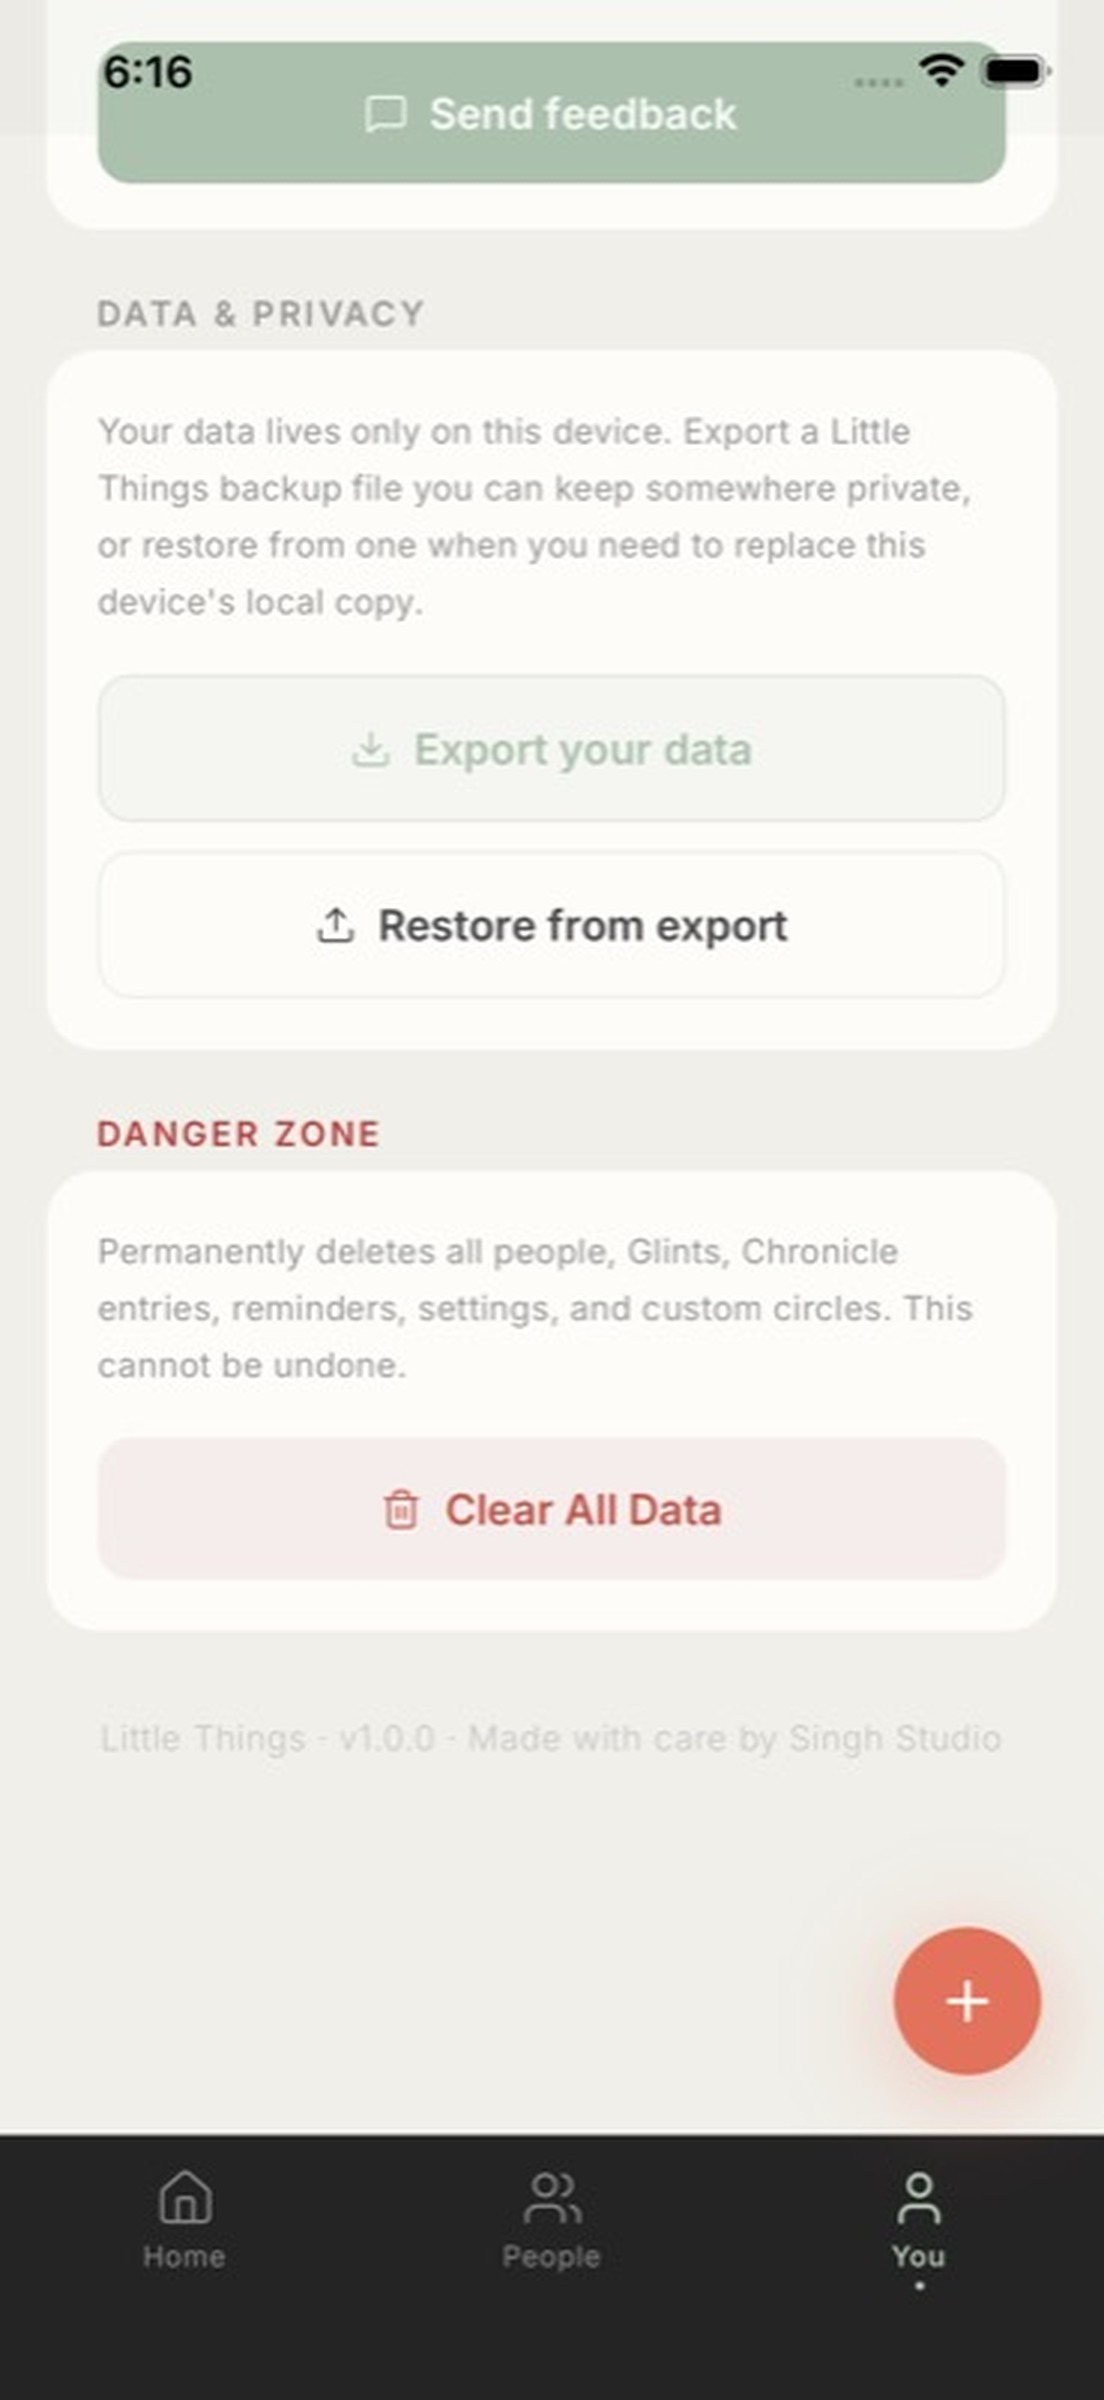
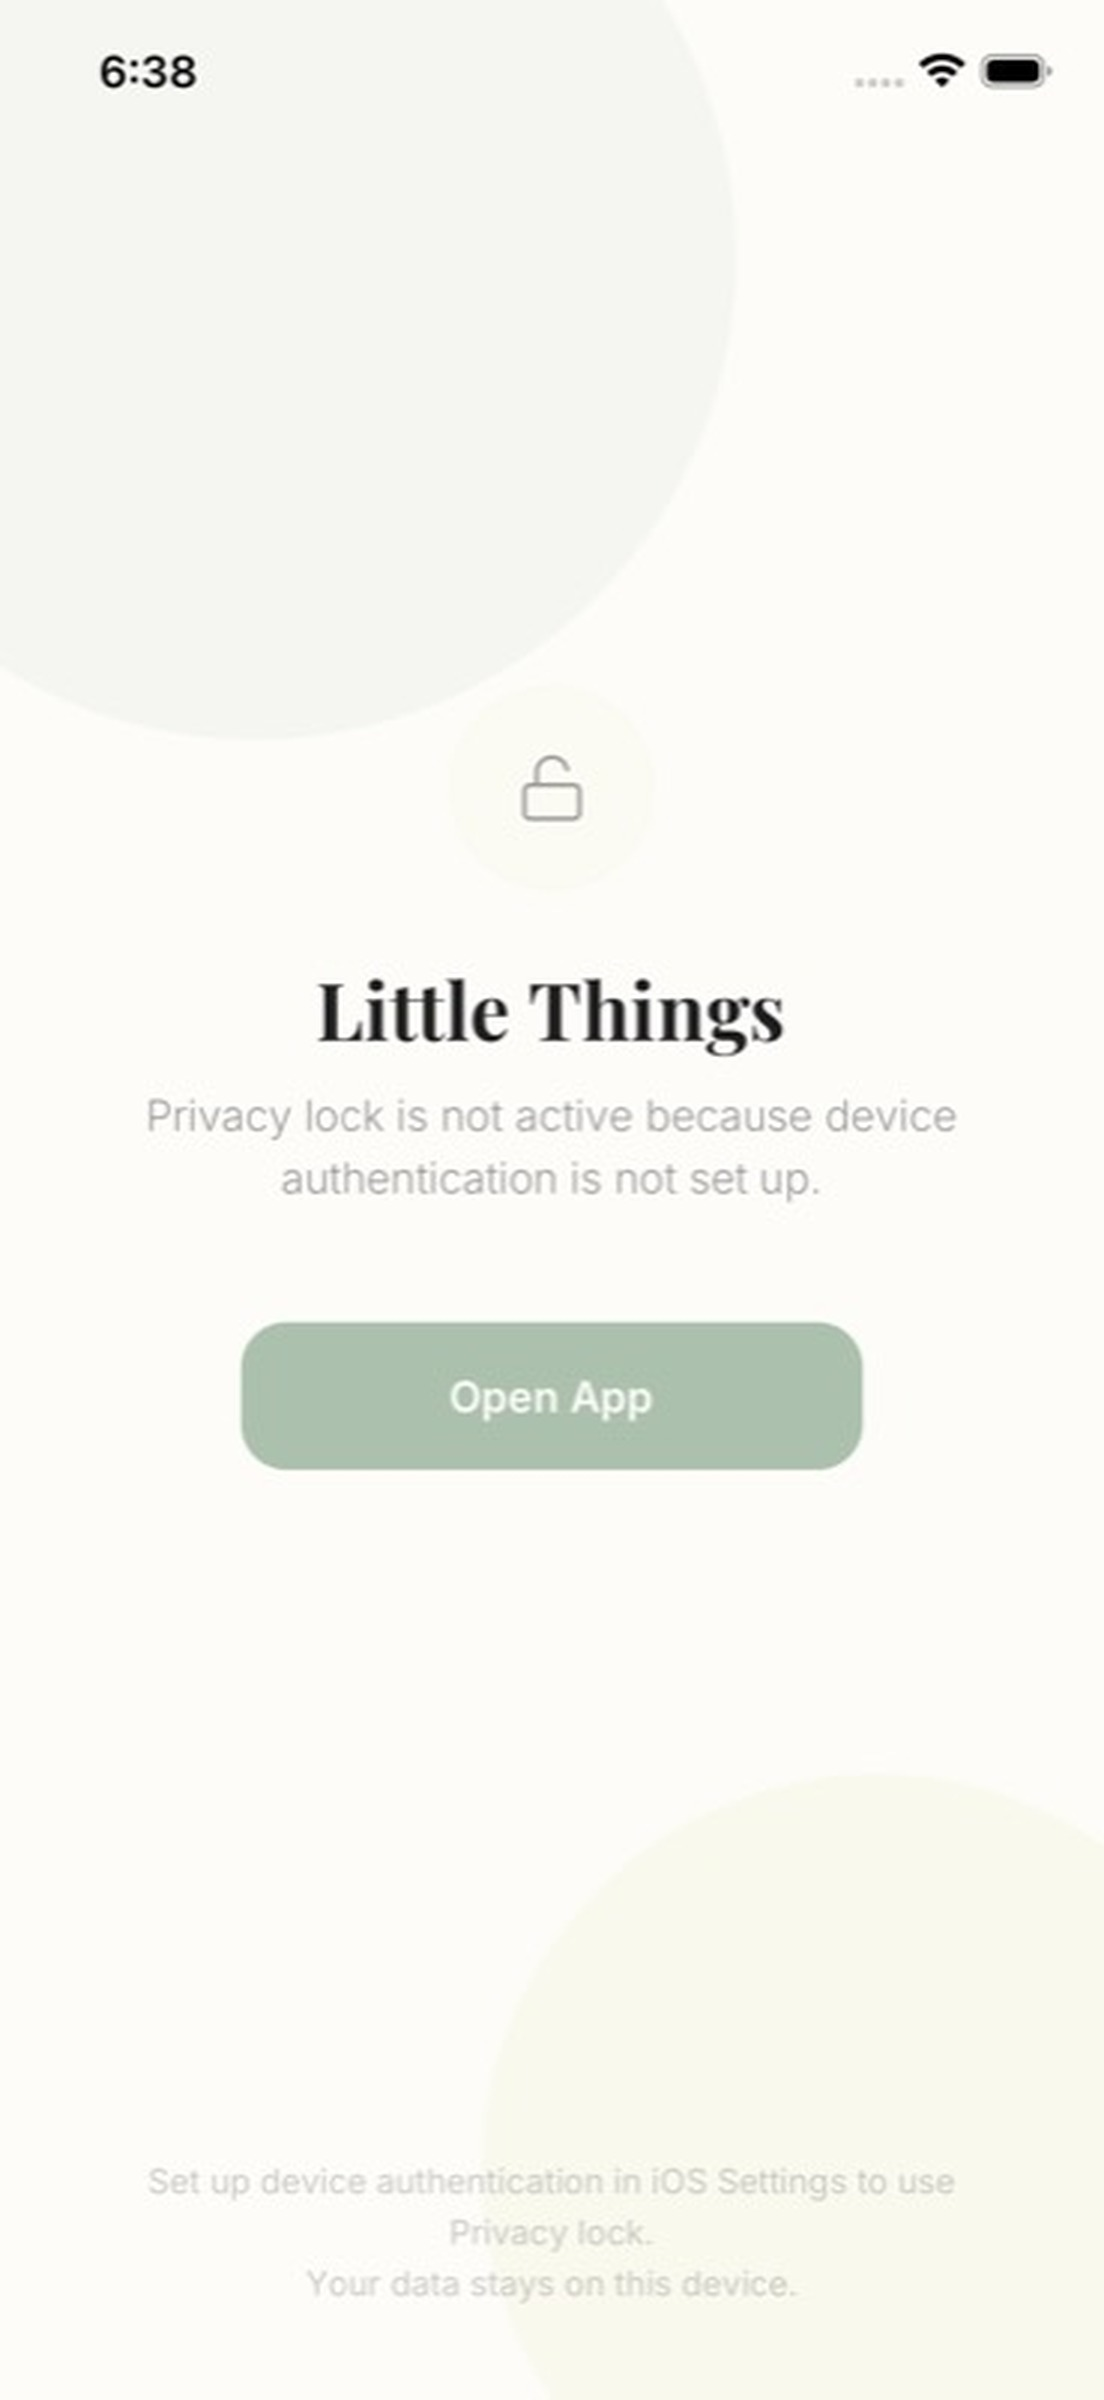
Polish website product screenshots
Fix the People screenshot common-thread copy, replace the privacy screenshot with the Little Things lock screen, and align privacy story copy.

diff --git a/script.js b/script.js
@@ -52,15 +52,15 @@ const orbitSteps = [
     key: "privacy",
     topline: "Privacy",
     heading: "Keep the notebook on your device.",
-    body: "People, glints, reminders, and moments live in the app's local notebook, with export as the manual backup path.",
+    body: "Little Things puts a local screen barrier in front of your private space, with authentication handled by your device.",
     screen: `
       <img class="screen-capture" src="./assets/screenshots/app-lock.jpg" alt="" loading="lazy" decoding="async" />
     `,
     notes: [
       { label: "No account", text: "Use it without sign-in", x: "-18rem", y: "-14rem", rotate: "-10deg", bg: "#d6cee0" },
       { label: "Local", text: "Stored on this device", x: "18rem", y: "-11rem", rotate: "5deg", bg: "#fdfcf8" },
-      { label: "Private details", text: "Kept in your notebook", x: "-20rem", y: "10rem", rotate: "4deg", bg: "#ebccbc" },
-      { label: "Export", text: "Manual backup when needed", x: "17rem", y: "14rem", rotate: "-6deg", bg: "#d4dfc7" },
+      { label: "Privacy lock", text: "A screen barrier", x: "-20rem", y: "10rem", rotate: "4deg", bg: "#ebccbc" },
+      { label: "Device handled", text: "No biometric data leaves", x: "17rem", y: "14rem", rotate: "-6deg", bg: "#d4dfc7" },
     ],
   },
 ];
